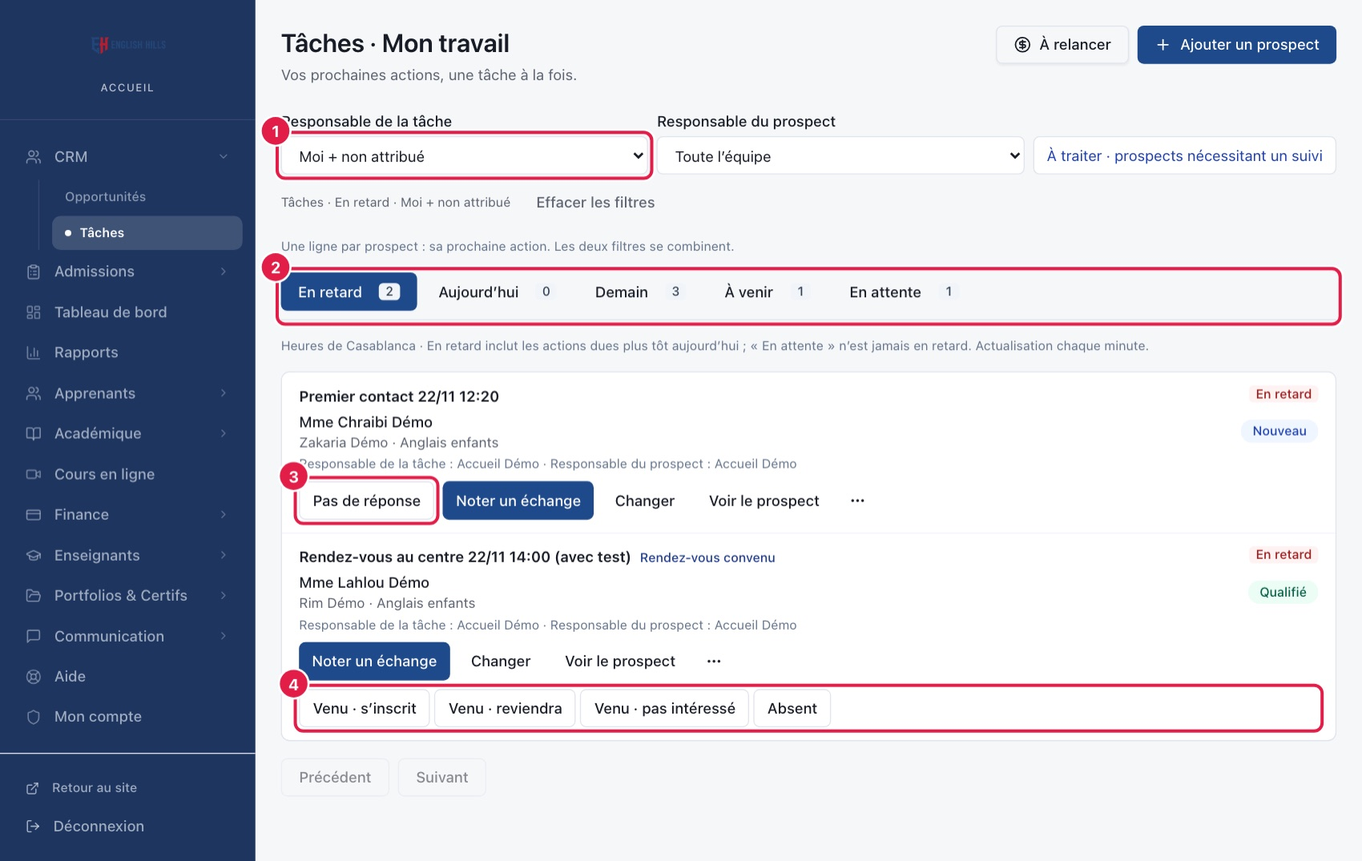
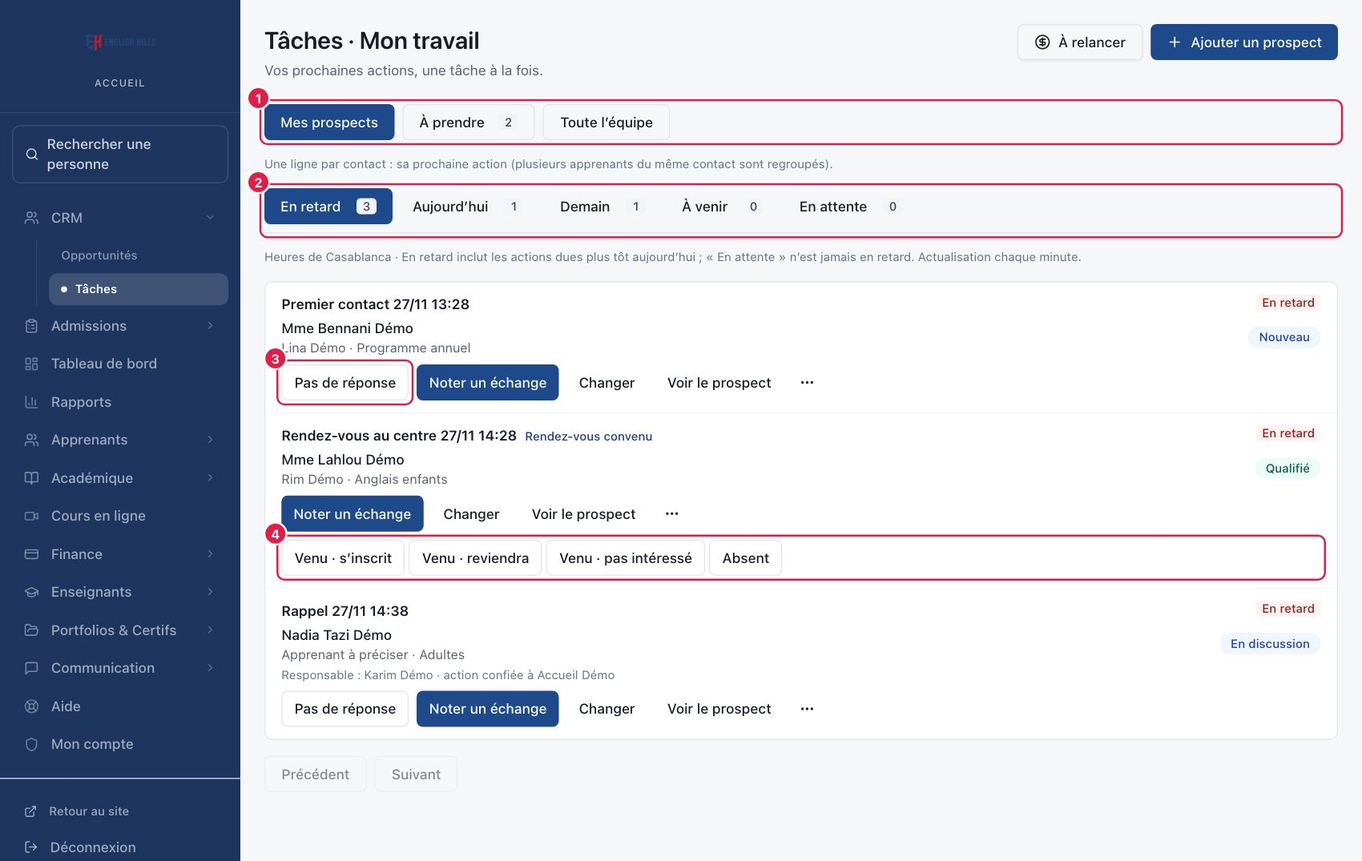
feat(crm): CPO-r2 — tabs placed per screen size inside the height budgets, phone fixes, new guide screenshots

diff --git a/src/components/crm/WorkQueue.jsx b/src/components/crm/WorkQueue.jsx
@@ -10,7 +10,7 @@ import { useAuth } from '@/context/AuthContext';
 import { useCrmRead } from '@/lib/crm/queries';
 import { MoreHorizontal } from 'lucide-react';
 import { DropdownMenu, DropdownMenuTrigger, DropdownMenuContent, DropdownMenuItem } from '@/components/ui/dropdown-menu';
-import { CALL_TASKS, SCHEDULE_KINDS, UUID, WORK_BUCKETS, WORK_SCOPES, actionErrorMessage, ownership, scheduledLabel, staffLabel, workAssignee, workAssigneeArgs, workScope } from '@/lib/crm/presentation.mjs';
+import { CALL_TASKS, SCHEDULE_KINDS, UUID, WORK_BUCKETS, WORK_SCOPES, actionErrorMessage, learnerLine, ownership, scheduledLabel, staffLabel, workAssignee, workAssigneeArgs, workScope } from '@/lib/crm/presentation.mjs';
 import { pluralFr } from '@/lib/ui/pluralFr.mjs';
 import AppointmentOutcome from './AppointmentOutcome';
 import { LifecycleBadge, ReadState } from './CrmShared';
@@ -78,7 +78,7 @@ export default function WorkQueue({ params, setFilter, onOpen, onAction }) {
   useEffect(() => { const reset=()=>setPages({}); window.addEventListener('crm:refresh',reset); return ()=>window.removeEventListener('crm:refresh',reset); }, []);
   function select(key,value) { setPages({}); setFilter(key,value); }
   return <section className="space-y-4 min-w-0">
-    <nav aria-label="Périmètre des tâches" className="flex flex-wrap gap-2">{Object.entries(WORK_SCOPES).map(([key,label])=><Button key={key} variant={scope===key ? 'default' : 'outline'} className="min-h-9" aria-pressed={scope===key} onClick={()=>select('assignee',key==='me' ? '' : key)}>{label}{key==='unassigned' && <span data-testid="work-to-take-count" className="ml-2 rounded bg-slate-100 px-1.5 text-xs tabular-nums text-slate-700">{toTakeCount ?? '—'}</span>}</Button>)}</nav>
+    <nav aria-label="Périmètre des tâches" className="flex flex-wrap gap-1 sm:gap-2">{Object.entries(WORK_SCOPES).map(([key,label])=><Button key={key} variant={scope===key ? 'default' : 'outline'} className="min-h-9 max-sm:px-2" aria-pressed={scope===key} onClick={()=>select('assignee',key==='me' ? '' : key)}>{label}{key==='unassigned' && <span data-testid="work-to-take-count" className="ml-1.5 rounded bg-slate-100 px-1.5 text-xs tabular-nums text-slate-700">{toTakeCount ?? '—'}</span>}</Button>)}</nav>
     {scope==='all' && <div className="max-w-xs"><FormField label="Personne"><select disabled={staff.isPending || staff.isError || !Array.isArray(staff.data?.rows)} aria-label="Personne" className={control} value={UUID.test(assignee) ? assignee : 'all'} onChange={e=>select('assignee',e.target.value)}>
       <option value="all">Toute l’équipe</option>
       {UUID.test(assignee) && !staff.data?.rows?.some(p=>p.id===assignee) && <option value={assignee}>Responsable sélectionné</option>}
@@ -98,7 +98,7 @@ export default function WorkQueue({ params, setFilter, onOpen, onAction }) {
       const failed=row.lead.failed_attempts > 0 ? pluralFr(row.lead.failed_attempts, 'appel infructueux', 'appels infructueux') : null;
       return <article data-testid="work-row" data-task-id={row.id} data-lead-id={row.lead_id} key={row.id} className="border-b border-slate-100 px-4 py-3 last:border-0">
       <div className="flex flex-wrap items-start justify-between gap-2"><p className="font-semibold">{action.label}{SCHEDULE_KINDS[row.schedule_kind] && <span className="ml-2 text-xs font-medium text-blue-900">{SCHEDULE_KINDS[row.schedule_kind]}</span>}</p><p className="flex flex-wrap gap-1 text-xs">{action.overdue && <span className="rounded bg-red-50 px-1.5 font-medium text-red-800">En retard</span>}{action.relance_due && <span className="rounded bg-amber-50 px-1.5 font-medium text-amber-900">À relancer</span>}{row.review_flag === 'd1_review' && <span className="rounded bg-slate-100 px-1.5 text-slate-700">À vérifier</span>}</p></div>
-      <div className="mt-1 flex flex-wrap items-center justify-between gap-2"><button className="min-w-0 text-left" onClick={()=>onOpen(row.lead.id)}><span className="block break-words text-sm font-medium">{row.lead.contact_name}{row.siblings > 1 && <span className="ml-2 text-xs font-normal text-slate-600">{pluralFr(row.siblings, 'apprenant')}</span>}</span><span className="block break-words operational-secondary">{row.lead.learner_name || 'Apprenant à préciser'} · {programmeLabel(row.lead.program)}</span>{row.family?.length > 0 && <span data-testid="work-row-family" className="block break-words text-xs text-slate-600">Aussi : {row.family.map(f => `${f.learner_name || 'Apprenant à préciser'}${f.next_action?.label ? ` (${f.next_action.label})` : ''}`).join(', ')}</span>}</button><LifecycleBadge status={row.lead.status}/></div>
+      <div className="mt-1 flex flex-wrap items-center justify-between gap-2"><button className="min-w-0 text-left" onClick={()=>onOpen(row.lead.id)}>{/* One span child keeps contact and learner stacked when the touch rule makes the button inline-flex. */}<span className="block min-w-0 text-left"><span className="block break-words text-sm font-medium">{row.lead.contact_name}{row.siblings > 1 && <span className="ml-2 text-xs font-normal text-slate-600">{pluralFr(row.siblings, 'apprenant')}</span>}</span><span className="block break-words operational-secondary">{[learnerLine(row.lead), programmeLabel(row.lead.program)].filter(Boolean).join(' · ')}</span>{row.family?.length > 0 && <span data-testid="work-row-family" className="block break-words text-xs text-slate-600">Aussi : {row.family.map(f => `${f.learner_name || 'Apprenant à préciser'}${f.next_action?.label ? ` (${f.next_action.label})` : ''}`).join(', ')}</span>}</span></button><LifecycleBadge status={row.lead.status}/></div>
       {(whoLine || failed) && <p data-testid="work-row-responsable" className="mt-1 text-xs text-slate-500">{[whoLine, failed].filter(Boolean).join(' · ')}</p>}
       <div className="mt-2 flex flex-wrap gap-2">{who.takeable && <TakeProspectButton lead={row.lead} primary />}{CALL_TASKS.includes(action.task_type) && <RowNoAnswer lead={row.lead} action={action} onGap={()=>onAction(row.lead.id,'no_answer')} />}<Button size="sm" variant={who.takeable ? 'outline' : 'default'} className="min-h-9" onClick={()=>onAction(row.lead.id,'exchange')}>Noter un échange</Button><Button size="sm" variant="ghost" className="min-h-9" onClick={()=>onAction(row.lead.id,'change')}>Changer</Button><Button size="sm" variant="ghost" className="min-h-9" onClick={()=>onOpen(row.lead.id)}>Voir le prospect</Button><DropdownMenu><DropdownMenuTrigger asChild><Button size="sm" variant="ghost" className="min-h-9 px-2" aria-label={`Plus d’options · ${row.lead.contact_name}`}><MoreHorizontal size={16} /></Button></DropdownMenuTrigger><DropdownMenuContent align="end"><DropdownMenuItem onSelect={()=>onAction(row.lead.id,'reassign')}>Changer de responsable</DropdownMenuItem><DropdownMenuItem onSelect={()=>onAction(row.lead.id,'reassign',row)}>Confier cette action à…</DropdownMenuItem></DropdownMenuContent></DropdownMenu></div>
       {action.task_type === 'center_visit' && <div className="mt-2"><AppointmentOutcome compact leadId={row.lead.id} version={row.lead.version} action={action} /></div>}

diff --git a/src/components/crm/OpportunityFilters.jsx b/src/components/crm/OpportunityFilters.jsx
@@ -30,7 +30,14 @@ function FacetSearch({ facet }) {
   const { label, query, search, setSearch, cursors, setCursors } = facet;
   return <details className="min-w-0 basis-48"><summary className="cursor-pointer py-2 text-xs text-muted-foreground">{facet.kind === 'program' ? 'Chercher d’autres programmes' : 'Chercher d’autres valeurs'}</summary><SearchField label={`Rechercher ${label.toLowerCase()}`} maxLength={120} value={search} onChange={value => { setSearch(value); setCursors([null]); }}/><div className="flex gap-1"><Button variant="ghost" disabled={cursors.length === 1 || query.isFetching} onClick={() => setCursors(x => x.slice(0, -1))}>Précédent</Button><Button variant="ghost" disabled={!query.data?.has_more || query.isFetching} onClick={() => setCursors(x => [...x, query.data.next_cursor])}>Suivant</Button></div></details>;
 }
-export default function OpportunityFilters({ filters, setFilter, layout, onReset, contact, band, toggle }) {
+// The four tabs (CPO-r2), rendered once. Where they sit depends on the band, so that the
+// first results stay inside the RCC-B1 height budgets and no tab is clipped: under the title
+// on a computer, in the filter row on a tablet (where the « Vue » select was), and on a row
+// of their own on a phone (the count line gives its place; « Tous n » shows the total).
+export function OpportunityTabs({ view, onSelect, compact = false }) {
+  return <ScrollRow aria-label="Vues des opportunités" role="navigation" className="text-foreground">{Object.entries(OPPORTUNITY_TABS).map(([key, label]) => <Button key={key} variant={opportunityTab(view) === key ? 'secondary' : 'ghost'} className={`${compact ? 'h-7' : 'h-9'} shrink-0 px-3 text-sm`} aria-pressed={opportunityTab(view) === key} onClick={() => onSelect(key)}>{label}</Button>)}</ScrollRow>;
+}
+export default function OpportunityFilters({ filters, setFilter, layout, onReset, contact, band, toggle, tabs }) {
   const [staffOffset, setStaffOffset] = useState(0), [search, setSearch] = useState(filters.q), [notice,setNotice] = useState('');
   const [panelOpen, setPanelOpen] = useState(false), [sheetOpen, setSheetOpen] = useState(false);
   const sentSearch = useRef(filters.q), searchTimer = useRef(null), updateFilter = useRef(setFilter), filtersButton = useRef(null);
@@ -52,7 +59,6 @@ export default function OpportunityFilters({ filters, setFilter, layout, onReset
   // offered nor counted under them; a view chosen in « Filtres » counts as one refinement.
   const ownerScoped = ['mine', 'to_take'].includes(filters.view), filterView = Object.hasOwn(OPPORTUNITY_FILTER_VIEWS, filters.view) ? filters.view : '';
   const activeCount = Number(!!contact) + Number(!!filterView) + Object.entries(filters).filter(([key,value]) => key === 'owner' ? !ownerScoped && value !== 'all' : !['view'].includes(key) && !!value).length;
-  const selectTab = key => { setNotice(''); if (['mine', 'to_take'].includes(key)) setFilter('owner', ''); setFilter('view', key); };
   const reset = () => { onReset(); setNotice(`Filtres effacés · vue ${OPPORTUNITY_VIEWS[filters.view]}`); };
   const ownerLabel = filters.owner === 'me' ? 'Moi' : filters.owner === 'unassigned' ? 'Non attribué' : staffLabel(staff.data?.rows?.find(row => row.id === filters.owner));
   // Removable chips for the refinements in effect; removing one patches the same URL key.
@@ -75,12 +81,12 @@ export default function OpportunityFilters({ filters, setFilter, layout, onReset
     {!ownerScoped && (staffOffset > 0 || staff.data?.total > 50) && <div className="flex flex-wrap gap-1"><Button variant="ghost" disabled={!staffOffset || staff.isFetching} onClick={() => setStaffOffset(x => x - 50)}>Responsables précédents</Button><Button variant="ghost" disabled={staffOffset + 50 >= staff.data?.total || staff.isFetching} onClick={() => setStaffOffset(x => x + 50)}>Responsables suivants</Button></div>}
   </>;
   return <div className="space-y-2">
-    <FilterBar compact activeCount={activeCount} summaryVisible={activeCount > 0 || !!notice} summary={notice || `${activeCount} filtre${activeCount > 1 ? 's' : ''} actif${activeCount > 1 ? 's' : ''} · vue ${OPPORTUNITY_VIEWS[filters.view] || 'non précisée'}`} onReset={activeCount > 0 ? reset : undefined} search={<SearchField label="Rechercher un prospect" className="basis-full lg:flex-1 lg:basis-60" maxLength={120} placeholder="Contact, apprenant ou téléphone…" value={search} onChange={searchChanged} onClear={clearSearch}/>}>
+    <FilterBar compact activeCount={activeCount} summaryVisible={activeCount > 0 || !!notice} summary={notice || `${activeCount} filtre${activeCount > 1 ? 's' : ''} actif${activeCount > 1 ? 's' : ''} · vue ${OPPORTUNITY_VIEWS[filters.view] || 'non précisée'}`} onReset={activeCount > 0 ? reset : undefined} search={<SearchField label="Rechercher un prospect" labelClassName="max-sm:sr-only" className="basis-full lg:flex-1 lg:basis-60" maxLength={120} placeholder="Contact, apprenant ou téléphone…" value={search} onChange={searchChanged} onClear={clearSearch}/>}>
       {desktop && <FacetSelect facet={program} selected={filters.program} onChange={v => setFilter('program', v)}/>}
+      {tabs && <div className="min-w-0 flex-1">{tabs}</div>}
       <Button ref={filtersButton} type="button" variant="outline" className="shrink-0" aria-expanded={desktop ? panelOpen : sheetShown} aria-controls={desktop && panelOpen ? panelId : undefined} aria-haspopup={desktop ? undefined : 'dialog'} onClick={() => desktop ? setPanelOpen(x => !x) : setSheetOpen(true)}><SlidersHorizontal size={16} />Filtres{activeCount > 0 ? ` · ${activeCount}` : ''}</Button>
       {toggle}
     </FilterBar>
-    <ScrollRow aria-label="Vues des opportunités" role="navigation">{Object.entries(OPPORTUNITY_TABS).map(([key, label]) => <Button key={key} variant={opportunityTab(filters.view) === key ? 'secondary' : 'ghost'} className="h-9 shrink-0 px-3 text-sm" aria-pressed={opportunityTab(filters.view) === key} onClick={() => selectTab(key)}>{label}</Button>)}</ScrollRow>
     {desktop && panelOpen && <div id={panelId} className="flex min-w-0 flex-wrap items-end gap-2 rounded-lg border bg-card p-3">{refinements}<FacetSearch facet={source}/><FacetSearch facet={program}/></div>}
     {chips.length > 0 && <div role="group" aria-label="Filtres actifs" className="flex min-w-0 flex-wrap gap-1">{chips.map(chip => <Button key={chip.key} type="button" variant="secondary" className="h-8 max-w-full rounded-full px-3 text-xs" aria-label={`Retirer le filtre · ${chip.label}`} onClick={() => { setNotice(''); chip.remove(); }}><span className="truncate">{chip.label}</span><X size={14} /></Button>)}</div>}
     {!desktop && <Sheet open={sheetShown} onOpenChange={setSheetOpen}><SheetContent onEscapeKeyDown={guard.onEscapeKeyDown} onCloseAutoFocus={event => { event.preventDefault(); filtersButton.current?.focus(); }} className="operational flex w-full max-w-full flex-col gap-0 overflow-hidden p-0 sm:max-w-[620px] sm:rounded-l-overlay motion-reduce:data-[state=open]:animate-none motion-reduce:data-[state=closed]:animate-none motion-reduce:transition-none">

diff --git a/src/components/crm/CrmWorkspace.jsx b/src/components/crm/CrmWorkspace.jsx
@@ -15,7 +15,7 @@ import LazyOverlay from './LazyOverlay';
 import WorkQueue from './WorkQueue';
 import OpportunitiesBoard from './OpportunitiesBoard';
 import OpportunitiesList from './OpportunitiesList';
-import OpportunityFilters from './OpportunityFilters';
+import OpportunityFilters, { OpportunityTabs } from './OpportunityFilters';
 import ScrollRow from './ScrollRow';
 import useResponsiveBand from './useResponsiveBand';
 // The drawer and the manual-create dialog are needed only after a click. Load them
@@ -119,18 +119,24 @@ export default function CrmWorkspace({
   const closedCount = Number.isFinite(counts?.LOST) && Number.isFinite(counts?.NOT_QUALIFIED) ? counts.LOST + counts.NOT_QUALIFIED : '—';
   const filtered = filters.view !== 'all' || !!contact || Object.entries(filters).some(([key,value]) => !['view','owner'].includes(key) && value) || filters.owner !== 'all';
   const closedHref = () => { const next = new URLSearchParams(params.toString()); next.set('view', 'closed'); return `${pathname}?${next}`; };
-  const toggle = <div role="group" aria-label="Présentation" className="flex shrink-0 gap-1"><Button variant={layout === 'board' ? 'default' : 'outline'} disabled={filters.view === 'closed'} aria-pressed={layout === 'board'} onClick={() => setFilter('layout','board')}><Columns3 size={16} /><span className="max-sm:sr-only">Tableau</span></Button><Button variant={layout === 'list' ? 'default' : 'outline'} aria-pressed={layout === 'list'} onClick={() => setFilter('layout','list')}><List size={16} /><span className="max-sm:sr-only">Liste</span></Button></div>;
+  const toggle = <div role="group" aria-label="Présentation" className="flex shrink-0 gap-1"><Button variant={layout === 'board' ? 'default' : 'outline'} disabled={filters.view === 'closed'} aria-pressed={layout === 'board'} onClick={() => setFilter('layout','board')}><Columns3 size={16} /><span className="max-sm:sr-only lg:max-xl:sr-only">Tableau</span></Button><Button variant={layout === 'list' ? 'default' : 'outline'} aria-pressed={layout === 'list'} onClick={() => setFilter('layout','list')}><List size={16} /><span className="max-sm:sr-only lg:max-xl:sr-only">Liste</span></Button></div>;
   // The count line replaces the former count row and board notice.
   const countLine = taking ? <p><span className="tabular-nums">{matchedCount ?? '—'}</span> prospects à prendre{layout === 'list' ? ` · ${STATUS[stage]}` : ''}</p> : <p><span className="tabular-nums">{matchedCount ?? '—'}</span> prospects correspondants{filters.view === 'closed' ? ' · Les clôtures sont affichées en Liste.' : <> · <a className="font-medium text-blue-800 underline underline-offset-4" href={closedHref()} onClick={event => { event.preventDefault(); setFilter('view','closed'); }}><span className="tabular-nums">{closedCount}</span> clôturés</a> (Liste)</>}</p>;
+  // « Mes prospects » and « À prendre » replace the owner filter, so choosing one clears it.
+  const selectTab = key => { if (['mine', 'to_take'].includes(key)) setFilter('owner', ''); setFilter('view', key); };
+  const tabs = <OpportunityTabs view={filters.view} onSelect={selectTab} compact={band === 'desktop'} />;
+  // The count line shows where there is room for it: on a tablet and from 1280 px.
+  const headerLine = band === 'desktop' ? <div className="space-y-1 max-xl:-mb-1">{tabs}<div className="max-xl:hidden">{countLine}</div></div> : band === 'tablet' ? countLine : undefined;
   return <PageFrame width="wide" data-band={band || undefined} data-presentation={mode === 'leads' ? presentation : undefined}>
   {mode === 'today' ? <PageHeader headingRef={headingRef} title="Tâches · Mon travail" description="Vos prochaines actions, une tâche à la fois." actions={<div className="flex flex-wrap gap-2">
     {/* RPW-r2 item 24: the learners with a balance due, per learner, no totals. */}
     <Button asChild variant="outline"><Link href="/students?payment=due"><CircleDollarSign size={16} />À relancer</Link></Button>
     {/* One line at 320 px: the first task stays where it was before item 24. */}
     <Button onClick={openManual}><Plus size={16} /><span>Ajouter<span className="max-sm:sr-only"> un prospect</span></span></Button></div>} />
-    : <PageHeader compact headingRef={headingRef} title="Opportunités" description={countLine} actions={<>{band === 'desktop' && toggle}<Button onClick={openManual}><Plus size={16} /><span>Ajouter<span className="max-sm:sr-only"> un prospect</span></span></Button></>} />}
+    : <PageHeader compact headingRef={headingRef} title="Opportunités" description={headerLine} actions={<>{band === 'desktop' && toggle}<Button onClick={openManual}><Plus size={16} /><span>Ajouter<span className="max-sm:sr-only"> un prospect</span></span></Button></>} />}
   {mode === 'today' ? <WorkQueue params={params} setFilter={setFilter} onOpen={openLead} onAction={routeAction} /> : <section className="min-w-0 space-y-2">
-    <OpportunityFilters filters={filters} setFilter={setFilter} layout={layout} contact={contact} band={band} toggle={band && band !== 'desktop' ? toggle : null} onReset={resetFilters} />
+    {band === 'phone' && tabs}
+    <OpportunityFilters filters={filters} setFilter={setFilter} layout={layout} contact={contact} band={band} toggle={band && band !== 'desktop' ? toggle : null} tabs={band === 'tablet' ? tabs : null} onReset={resetFilters} />
     {contact && <p className="text-sm">Opportunités de ce contact · Les apprenants restent séparés. <Button variant="link" onClick={() => { const next = new URLSearchParams(window.location.search); next.delete('contact'); window.history.replaceState(null, '', `${pathname}?${next}`); }}>Tous les contacts</Button></p>}
     {(presentation === 'stage-list' || (taking && layout === 'list')) && <StageChips view={filters.view} stage={stage} counts={counts} total={opportunities.data?.total} all={!taking} onSelect={value => setFilter('stage', value)} />}
     <div role="status" className="sr-only">Les vues sont actualisées après chaque action ; les prospects qui ne correspondent plus aux filtres quittent la vue.</div>

diff --git a/src/app/(admin)/helpdesk/GuideContent.jsx b/src/app/(admin)/helpdesk/GuideContent.jsx
@@ -75,7 +75,7 @@ export default function GuideContent() {
 </div>
 <h3 id="menu">Votre page d’accueil et votre menu</h3>
 <figure className="fig">
-<Image src="/helpdesk/s01-board.jpg" width={1700} height={1075} alt="Page Opportunités avec le menu de gauche, les vues, le bouton Ajouter un prospect et cinq colonnes de prospects" unoptimized tabIndex={0} role="button" /><figcaption>La page d’accueil&nbsp;: le tableau des prospects, par étape.</figcaption>
+<Image src="/helpdesk/s01-board.jpg" width={1700} height={1075} alt="Page Opportunités avec le menu de gauche, les quatre onglets, le bouton Ajouter un prospect et cinq colonnes de prospects portant le nom du responsable" unoptimized tabIndex={0} role="button" /><figcaption>La page d’accueil&nbsp;: le tableau des prospects, par étape.</figcaption>
 <ol className="legend">
 <li>Le menu <span className="menu">CRM</span> contient <span className="menu">Opportunités</span> (cette page) et <span className="menu">Tâches</span>.</li>
 <li>Les <b>onglets</b>&nbsp;: <span className="ui">Tous</span>, <span className="ui">Mes prospects</span>, <span className="ui">À prendre</span> (ceux que personne n’a encore pris) et <span className="ui">Clôturés</span>. Chaque carte porte le nom du responsable, ou «&nbsp;À prendre&nbsp;».</li>
@@ -299,7 +299,7 @@ export default function GuideContent() {
 <p>Une routine simple pour ne rien laisser passer. Pour la rentrée et la fin de mois, voir <a href="#q14">Q14</a>.</p>
 </header>
 <figure className="fig">
-<Image src="/helpdesk/s04-tasks.jpg" width={1700} height={1075} alt="Page Tâches avec le filtre Moi plus non attribué, les onglets En retard, Aujourd’hui, Demain, À venir, En attente, un appel et un rendez-vous au centre" unoptimized tabIndex={0} role="button" /><figcaption>La page <span className="menu">Tâches</span>&nbsp;: votre point de départ chaque matin. Une ligne par contact, avec sa prochaine action&nbsp;: une mère et ses deux enfants tiennent sur une seule ligne. <i>Capture de la version précédente&nbsp;: les deux listes «&nbsp;Responsable&nbsp;» sont remplacées par trois onglets.</i></figcaption>
+<Image src="/helpdesk/s04-tasks.jpg" width={1700} height={1075} alt="Page Tâches avec les trois onglets Mes prospects, À prendre et Toute l’équipe, les échéances En retard, Aujourd’hui, Demain, À venir, En attente, un appel et un rendez-vous au centre" unoptimized tabIndex={0} role="button" /><figcaption>La page <span className="menu">Tâches</span>&nbsp;: votre point de départ chaque matin. Une ligne par contact, avec sa prochaine action&nbsp;: une mère et ses deux enfants tiennent sur une seule ligne.</figcaption>
 <ol className="legend">
 <li>Trois onglets&nbsp;: <span className="ui">Mes prospects</span> (vos suivis, ouvert par défaut), <span className="ui">À prendre</span> (ce que personne n’a pris, avec un compteur) et <span className="ui">Toute l’équipe</span> (avec le choix d’une personne).</li>
 <li>Les échéances&nbsp;: <b>En retard</b>, <b>Aujourd’hui</b>, <b>Demain</b>, <b>À venir</b> et <b>En attente</b>, avec le nombre de prospects dans chaque onglet.</li>
@@ -406,9 +406,9 @@ export default function GuideContent() {
 </ul>
 <h4>Changer le responsable d’un prospect</h4>
 <figure className="fig narrow">
-<Image src="/helpdesk/s05b-assign.jpg" width={1700} height={1075} alt="Fiche d’un prospect avec le menu Autres actions ouvert sur Attribuer un responsable (capture de la version précédente)" unoptimized tabIndex={0} role="button" /><ol className="legend">
+<Image src="/helpdesk/s05b-assign.jpg" width={1700} height={1075} alt="Fiche d’un prospect à prendre, avec le bouton Je m’en occupe et le menu Autres actions ouvert sur Changer de responsable" unoptimized tabIndex={0} role="button" /><ol className="legend">
 <li>La fiche indique le responsable du prospect. Si personne ne l’a pris, elle indique «&nbsp;À prendre&nbsp;» avec le bouton <span className="ui">Je m’en occupe</span>.</li>
-<li><span className="ui">Autres actions</span> › <span className="ui">Changer de responsable</span> (le prospect, «&nbsp;Moi&nbsp;» en tête de liste) ou <span className="ui">Confier cette action à…</span> (seulement l’action). Dans la capture, ces deux entrées portent leur ancien nom.</li>
+<li><span className="ui">Autres actions</span> › <span className="ui">Changer de responsable</span> (le prospect, «&nbsp;Moi&nbsp;» en tête de liste) ou <span className="ui">Confier cette action à…</span> (seulement l’action). Le même menu contient <span className="ui">Modifier la fiche</span>, <span className="ui">Ajouter un enfant</span> et <span className="ui">Clôturer le prospect</span>.</li>
 </ol>
 </figure>
 <p>Prenez un prospect «&nbsp;À prendre&nbsp;» dès que vous vous en occupez, avec <span className="ui">Je m’en occupe</span>&nbsp;: il passe dans <span className="ui">Mes prospects</span>, et vos collègues voient votre nom sur sa carte. Si une collègue l’a pris juste avant vous, la plateforme vous le dit («&nbsp;Déjà pris ou modifié&nbsp;») et met la liste à jour&nbsp;: rien n’est enregistré deux fois.</p>

diff --git a/src/components/operational/SearchField.jsx b/src/components/operational/SearchField.jsx
@@ -2,9 +2,10 @@
 import { useId, useRef } from 'react';
 import { Search, X } from 'lucide-react';
 import { Button } from '@/components/ui/button';
-export default function SearchField({ label = 'Rechercher', value, onChange, onClear = () => onChange(''), className = '', ...props }) {
+// labelClassName (opt-in): for example « max-sm:sr-only » where the placeholder already says what to type.
+export default function SearchField({ label = 'Rechercher', value, onChange, onClear = () => onChange(''), className = '', labelClassName = '', ...props }) {
   const id = useId(), input = useRef(null);
-  return <div className={`min-w-0 ${className}`}><label htmlFor={id} className="mb-1 block text-xs font-medium text-muted-foreground">{label}</label>
+  return <div className={`min-w-0 ${className}`}><label htmlFor={id} className={`mb-1 block text-xs font-medium text-muted-foreground ${labelClassName}`}>{label}</label>
     <div className="relative"><Search aria-hidden className="pointer-events-none absolute left-3 top-1/2 h-4 w-4 -translate-y-1/2 text-muted-foreground"/>
       <input ref={input} id={id} type="search" className="operational-control pl-9 pr-12" value={value} onChange={e => onChange(e.target.value)} {...props}/>
       {value && <Button type="button" variant="ghost" size="icon" className="absolute right-0 top-0" aria-label={`Effacer · ${label}`} onClick={() => { onClear(); input.current?.focus(); }}><X/></Button>}
